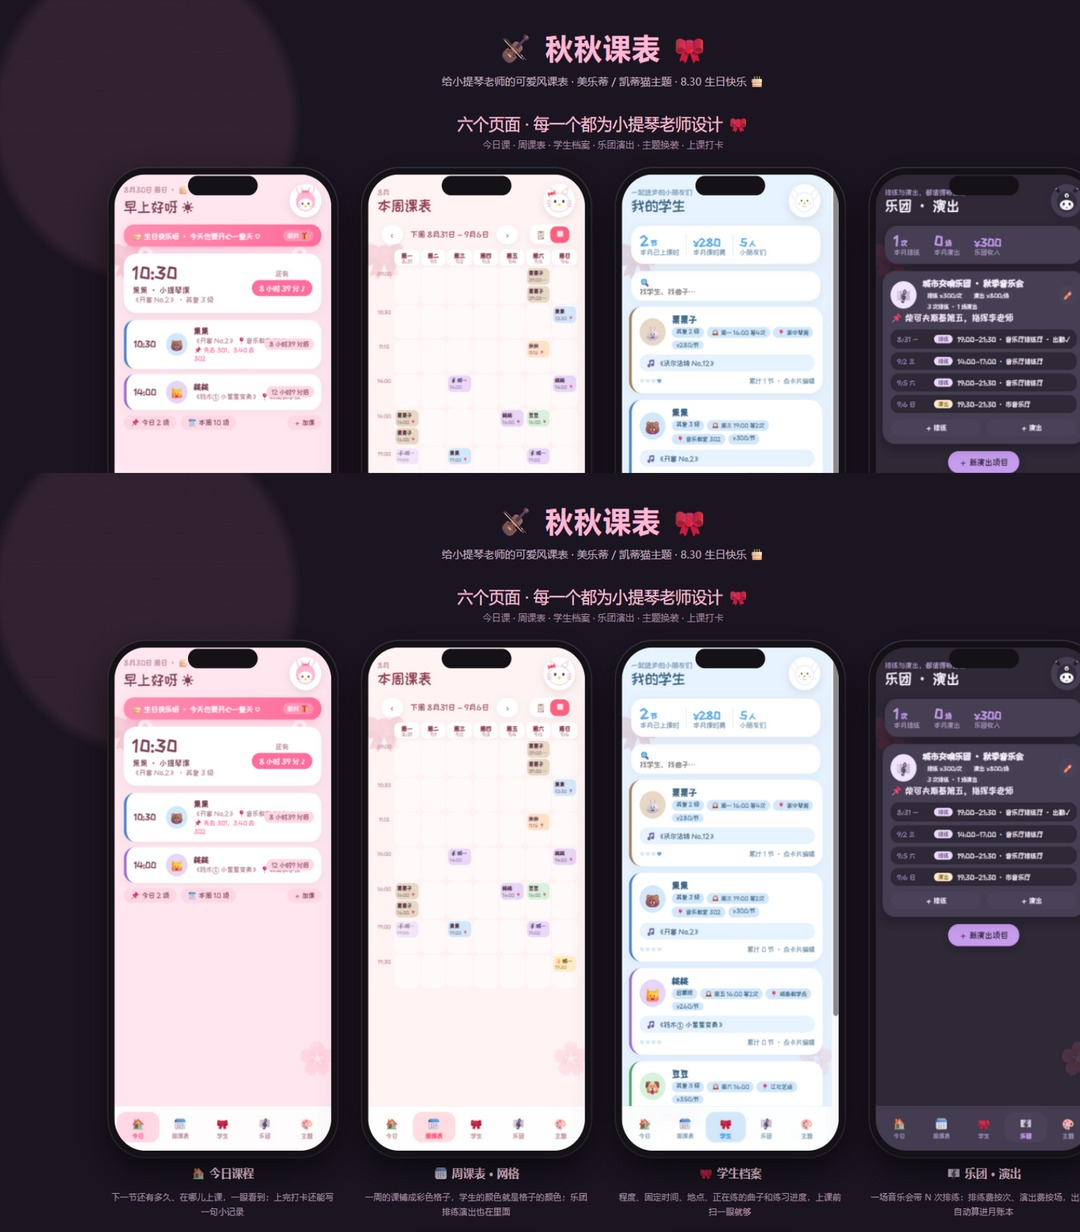
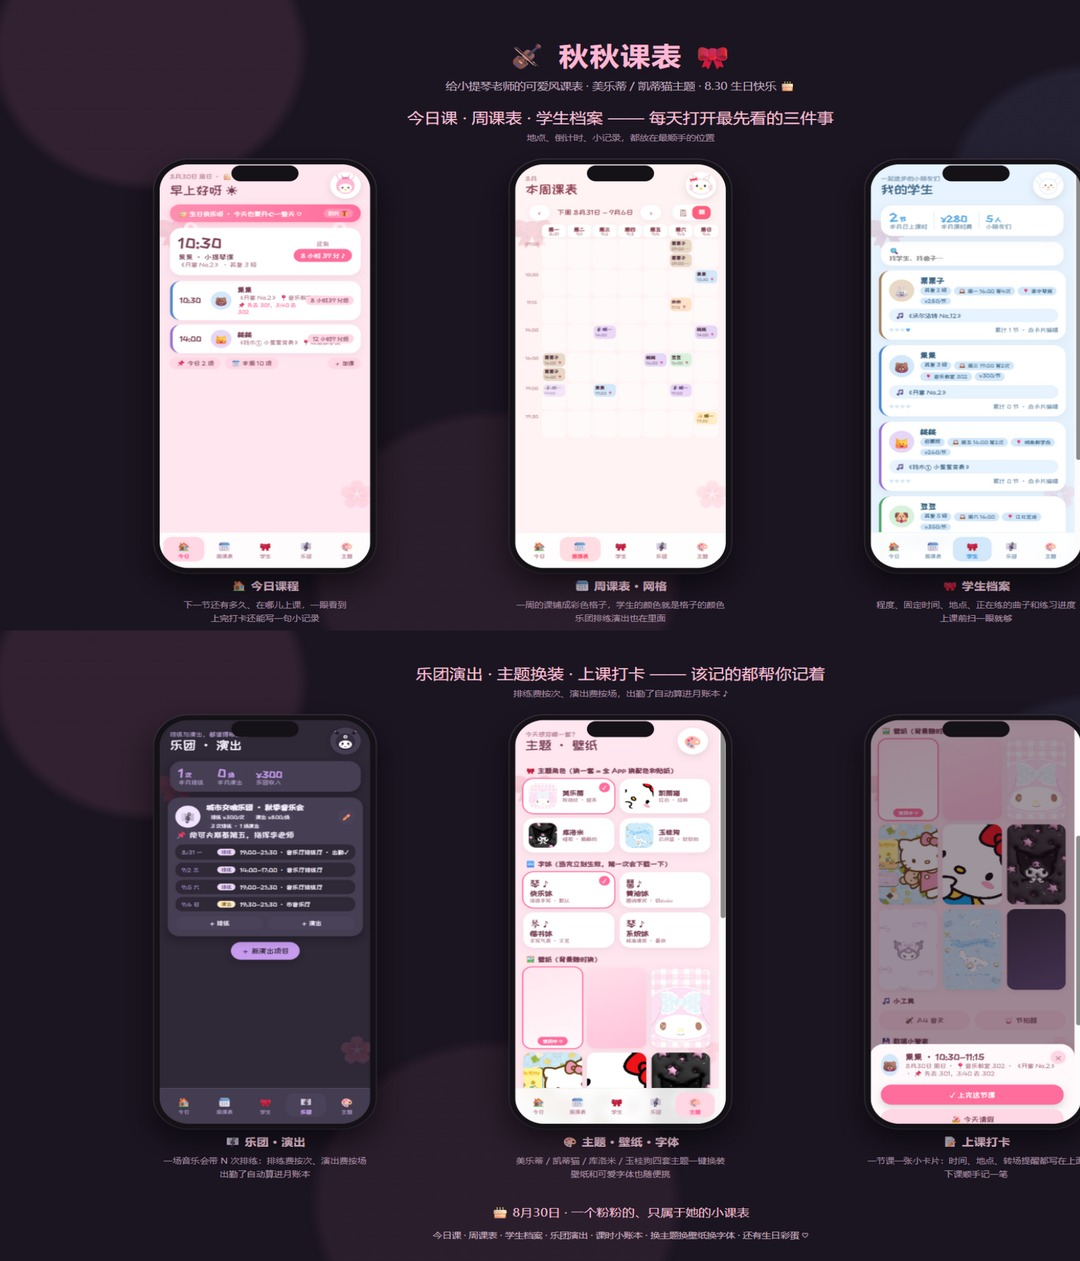
宣传图高清重制：3700宽2倍渲染双板布局，2160/1080双档输出

diff --git a/mockup/share.html b/mockup/share.html
@@ -5,93 +5,86 @@
 <title>秋秋课表 · 宣传图</title>
 <style>
 *{margin:0;padding:0;box-sizing:border-box}
-body{
+body{background:#0f0c12}
+.board{width:1850px;height:1080px;overflow:hidden;position:relative;
   font-family:'PingFang SC','Microsoft YaHei',sans-serif;
-  background:#1b1522;
+  background:#1b1522;color:#f2e9f0;
   background-image:
     radial-gradient(circle at 12% 8%, rgba(255,143,179,.10) 0 220px, transparent 240px),
     radial-gradient(circle at 88% 30%, rgba(150,190,255,.08) 0 200px, transparent 220px),
-    radial-gradient(circle at 40% 90%, rgba(255,143,179,.07) 0 260px, transparent 280px);
-  color:#f2e9f0;padding:40px 30px 60px;
-}
-.wrap{max-width:1760px;margin:0 auto}
-.hero{text-align:center;margin-bottom:10px}
-.hero h1{font-size:42px;color:#ffb9d4;letter-spacing:2px}
-.hero p{margin-top:10px;font-size:16px;color:#c9b3c4}
-.sec{margin-top:34px}
-.sec-t{font-size:24px;color:#ffc3da;margin-bottom:6px;text-align:center}
-.sec-s{font-size:14px;color:#a98ea3;text-align:center;margin-bottom:24px}
-.row{display:flex;gap:36px;flex-wrap:wrap;justify-content:center;align-items:flex-start}
-.item{display:flex;flex-direction:column;align-items:center;gap:12px}
-.item h3{font-size:17px;color:#ffd7e7}
-.item p{font-size:13px;color:#b39aae;max-width:350px;text-align:center;line-height:1.7}
-.phone{
-  width:348px;height:742px;background:#151217;border-radius:56px;padding:9px;
-  box-shadow:0 24px 54px rgba(0,0,0,.55), 0 0 0 2px #3a3140;position:relative;flex-shrink:0;
-}
-.phone img.shot{width:100%;height:100%;border-radius:47px;object-fit:cover;display:block}
-.island{position:absolute;top:11px;left:50%;transform:translateX(-50%);width:106px;height:28px;background:#151217;border-radius:17px;z-index:5}
-footer{margin-top:44px;text-align:center;font-size:14px;color:#cfb3c2;line-height:2}
-footer .big{font-size:18px;color:#ffc3da}
+    radial-gradient(circle at 40% 90%, rgba(255,143,179,.07) 0 260px, transparent 280px);}
+.hero{text-align:center;padding-top:44px}
+.hero h1{font-size:44px;color:#ffb9d4;letter-spacing:2px}
+.hero p{margin-top:12px;font-size:17px;color:#c9b3c4}
+.sec-t{font-size:25px;color:#ffc3da;margin-top:16px;text-align:center}
+.sec-s{font-size:14px;color:#a98ea3;text-align:center;margin-top:8px}
+.row{display:flex;gap:60px;justify-content:center;align-items:flex-start;margin-top:28px}
+.item{display:flex;flex-direction:column;align-items:center;gap:10px;width:470px}
+.item h3{font-size:18px;color:#ffd7e7}
+.item p{font-size:13.5px;color:#b39aae;text-align:center;line-height:1.65}
+.phone{width:330px;height:702px;background:#151217;border-radius:52px;padding:8px;
+  box-shadow:0 22px 50px rgba(0,0,0,.55), 0 0 0 2px #3a3140;position:relative}
+.phone img.shot{width:100%;height:100%;border-radius:44px;object-fit:cover;display:block}
+.island{position:absolute;top:10px;left:50%;transform:translateX(-50%);width:100px;height:27px;background:#151217;border-radius:16px;z-index:5}
+.foot{position:absolute;bottom:38px;left:0;right:0;text-align:center;font-size:14px;color:#cfb3c2;line-height:1.9}
+.foot .big{font-size:19px;color:#ffc3da;margin-bottom:8px}
+.hint{position:absolute;bottom:6px;right:14px;font-size:11px;color:#5e5266}
 </style>
 </head>
 <body>
-<div class="wrap">
 
-<div class="hero">
-  <h1>🎻 秋秋课表 🎀</h1>
-  <p>给小提琴老师的可爱风课表 · 美乐蒂 / 凯蒂猫主题 · 8.30 生日快乐 🎂</p>
-</div>
-
-<div class="sec">
-  <div class="sec-t">六个页面 · 每一个都为小提琴老师设计 🎀</div>
-  <div class="sec-s">今日课 · 周课表 · 学生档案 · 乐团演出 · 主题换装 · 上课打卡</div>
+<div class="board" id="b1">
+  <div class="hero">
+    <h1>🎻 秋秋课表 🎀</h1>
+    <p>给小提琴老师的可爱风课表 · 美乐蒂 / 凯蒂猫主题 · 8.30 生日快乐 🎂</p>
+  </div>
+  <div class="sec-t">今日课 · 周课表 · 学生档案 —— 每天打开最先看的三件事</div>
+  <div class="sec-s">地点、倒计时、小记录，都放在最顺手的位置</div>
   <div class="row">
-
     <div class="item">
-      <div class="phone"><div class="island"></div><img class="shot" src="promo_today.png" alt=""></div>
+      <div class="phone"><div class="island"></div><img class="shot" src="promo_today.png"></div>
       <h3>🏠 今日课程</h3>
-      <p>下一节还有多久、在哪儿上课，一眼看到；上完打卡还能写一句小记录</p>
+      <p>下一节还有多久、在哪儿上课，一眼看到<br>上完打卡还能写一句小记录</p>
     </div>
-
     <div class="item">
-      <div class="phone"><div class="island"></div><img class="shot" src="promo_week.png" alt=""></div>
+      <div class="phone"><div class="island"></div><img class="shot" src="promo_week.png"></div>
       <h3>🗓 周课表 · 网格</h3>
-      <p>一周的课铺成彩色格子，学生的颜色就是格子的颜色；乐团排练演出也在里面</p>
+      <p>一周的课铺成彩色格子，学生的颜色就是格子的颜色<br>乐团排练演出也在里面</p>
     </div>
-
     <div class="item">
-      <div class="phone"><div class="island"></div><img class="shot" src="promo_students.png" alt=""></div>
+      <div class="phone"><div class="island"></div><img class="shot" src="promo_students.png"></div>
       <h3>🎀 学生档案</h3>
-      <p>程度、固定时间、地点、正在练的曲子和练习进度，上课前扫一眼就够</p>
+      <p>程度、固定时间、地点、正在练的曲子和练习进度<br>上课前扫一眼就够</p>
     </div>
-
-    <div class="item">
-      <div class="phone"><div class="island"></div><img class="shot" src="promo_orch.png" alt=""></div>
-      <h3>🎼 乐团 · 演出</h3>
-      <p>一场音乐会带 N 次排练：排练费按次、演出费按场，出勤了自动算进月账本</p>
-    </div>
-
-    <div class="item">
-      <div class="phone"><div class="island"></div><img class="shot" src="promo_themes.png" alt=""></div>
-      <h3>🎨 主题 · 壁纸 · 字体</h3>
-      <p>美乐蒂 / 凯蒂猫 / 库洛米 / 玉桂狗四套主题一键换装，壁纸和可爱字体也随便挑</p>
-    </div>
-
-    <div class="item">
-      <div class="phone"><div class="island"></div><img class="shot" src="promo_sheet.png" alt=""></div>
-      <h3>📝 上课打卡</h3>
-      <p>一节课一张小卡片：时间、地点、转场提醒都写在上面，下课顺手记一笔</p>
-    </div>
-
   </div>
 </div>
 
-<footer>
-  <div class="big">🎂 8月30日 · 一个粉粉的、只属于她的小课表</div>
-  今日课 · 周课表 · 学生档案 · 乐团演出 · 课时小账本 · 换主题换壁纸换字体 · 还有生日彩蛋 ♡
-</footer>
-
+<div class="board" id="b2">
+  <div class="sec-t" style="margin-top:56px">乐团演出 · 主题换装 · 上课打卡 —— 该记的都帮你记着</div>
+  <div class="sec-s">排练费按次、演出费按场，出勤了自动算进月账本 ♪</div>
+  <div class="row">
+    <div class="item">
+      <div class="phone"><div class="island"></div><img class="shot" src="promo_orch.png"></div>
+      <h3>🎼 乐团 · 演出</h3>
+      <p>一场音乐会带 N 次排练：排练费按次、演出费按场<br>出勤了自动算进月账本</p>
+    </div>
+    <div class="item">
+      <div class="phone"><div class="island"></div><img class="shot" src="promo_themes.png"></div>
+      <h3>🎨 主题 · 壁纸 · 字体</h3>
+      <p>美乐蒂 / 凯蒂猫 / 库洛米 / 玉桂狗四套主题一键换装<br>壁纸和可爱字体也随便挑</p>
+    </div>
+    <div class="item">
+      <div class="phone"><div class="island"></div><img class="shot" src="promo_sheet.png"></div>
+      <h3>📝 上课打卡</h3>
+      <p>一节课一张小卡片：时间、地点、转场提醒都写在上面<br>下课顺手记一笔</p>
+    </div>
+  </div>
+  <div class="foot">
+    <div class="big">🎂 8月30日 · 一个粉粉的、只属于她的小课表</div>
+    今日课 · 周课表 · 学生档案 · 乐团演出 · 课时小账本 · 换主题换壁纸换字体 · 还有生日彩蛋 ♡
+  </div>
+  <div class="hint">qinqin · 2026</div>
 </div>
+
 </body>
 </html>
